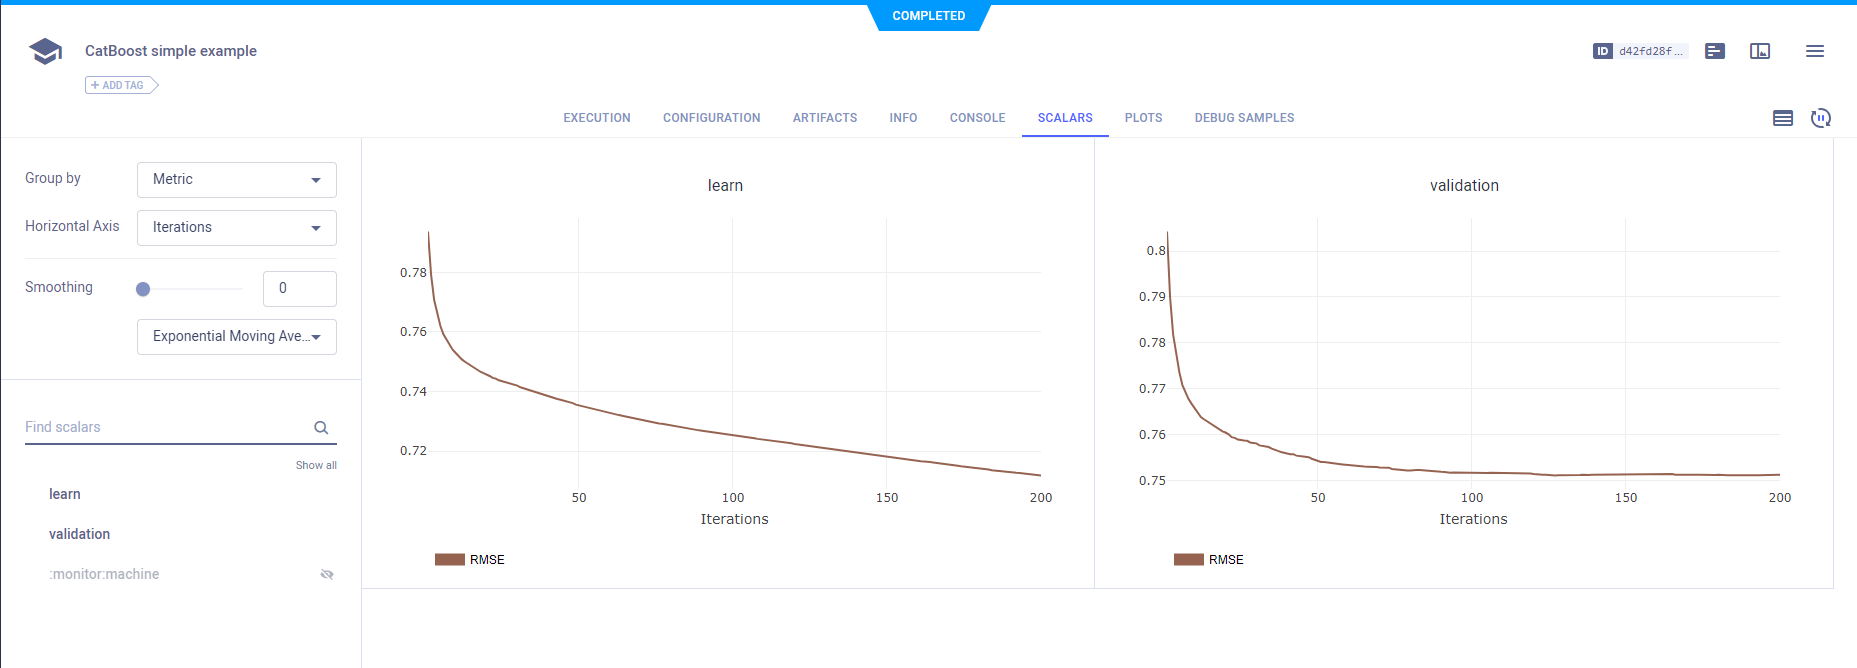
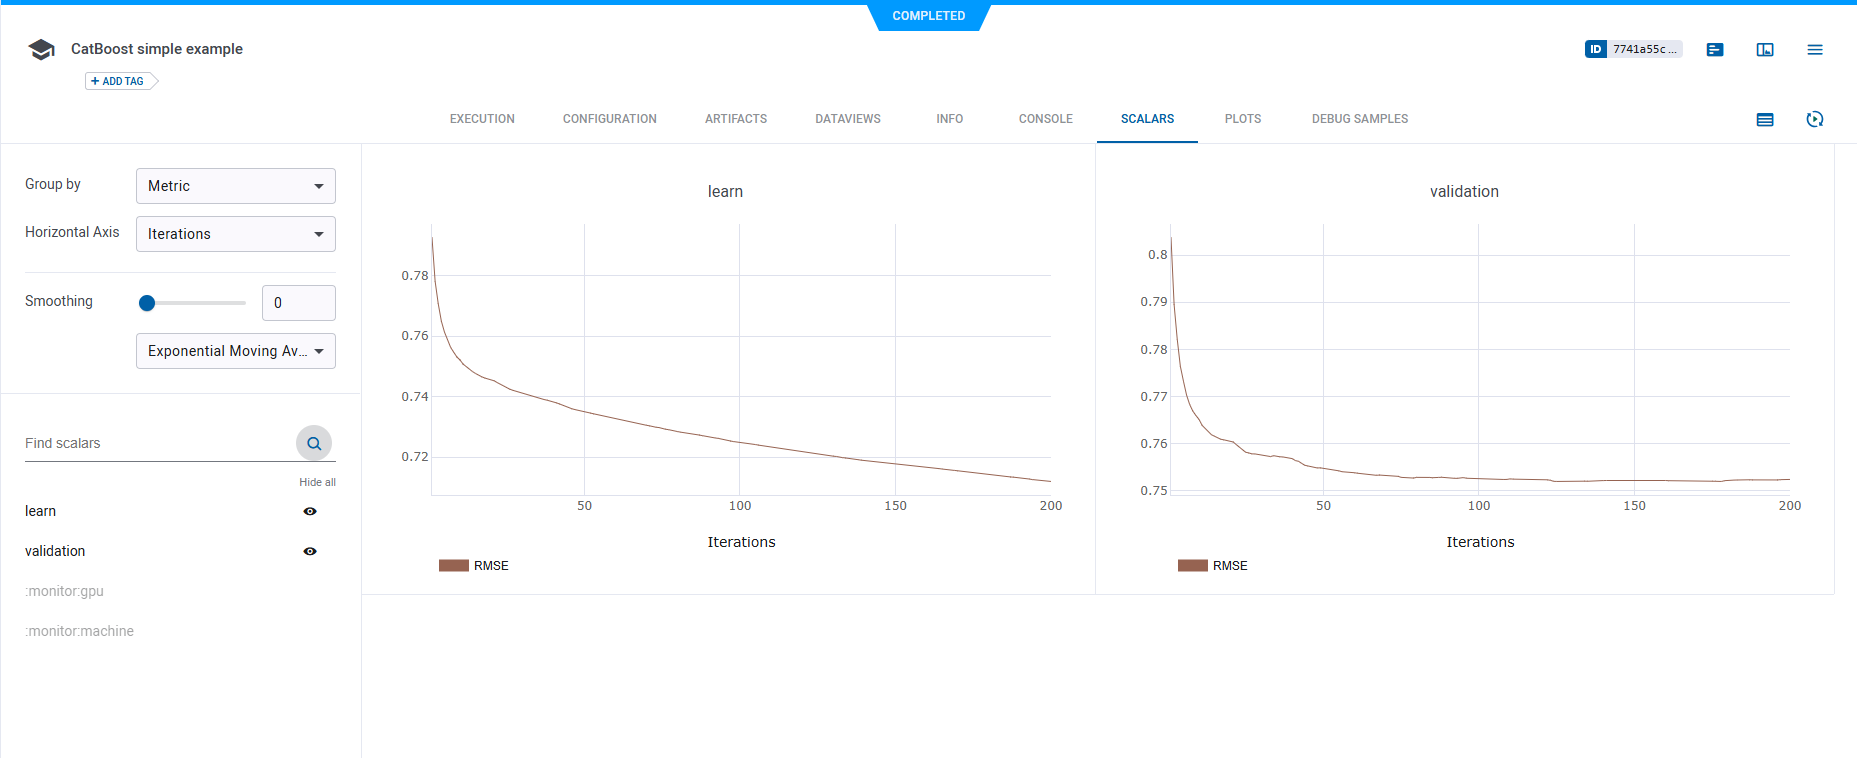
Update Catboost images

diff --git a/docs/guides/frameworks/catboost/catboost.md b/docs/guides/frameworks/catboost/catboost.md
@@ -15,25 +15,30 @@ The example script does the following:
 ClearML automatically captures scalars logged by CatBoost. These scalars can be visualized in plots, which appear in the 
 [ClearML web UI](../../../webapp/webapp_overview.md), in the task's **SCALARS** tab.
 
-![Task scalars](../../../img/examples_catboost_scalars.png)
+![Task scalars](../../../img/examples_catboost_scalars.png#light-mode-only)
+![Task scalars](../../../img/examples_catboost_scalars_dark.png#dark-mode-only)
 
 ## Hyperparameters
 ClearML automatically logs command line options defined with argparse. They appear in **CONFIGURATIONS > HYPERPARAMETERS > Args**.
 
-![Task hyperparameters](../../../img/examples_catboost_configurations.png)
+![Task hyperparameters](../../../img/examples_catboost_configurations.png#light-mode-only)
+![Task hyperparameters](../../../img/examples_catboost_configurations_dark.png#dark-mode-only)
 
 ## Console
 Text printed to the console for training progress, as well as all other console output, appear in **CONSOLE**.
 
-![Task console](../../../img/examples_catboost_console.png)
+![Task console](../../../img/examples_catboost_console.png#light-mode-only)
+![Task console](../../../img/examples_catboost_console_dark.png#dark-mode-only)
 
 ## Artifacts
 Models created by the task appear in the task's **ARTIFACTS** tab. ClearML automatically logs and tracks 
 models created using CatBoost.
 
-![Task artifacts](../../../img/examples_catboost_artifacts.png)
+![Task artifacts](../../../img/examples_catboost_artifacts.png#light-mode-only)
+![Task artifacts](../../../img/examples_catboost_artifacts_dark.png#dark-mode-only)
 
 Clicking on the model name takes you to the [model's page](../../../webapp/webapp_model_viewing.md), where you can view 
 the model's details and access the model.
 
-![Model page](../../../img/examples_catboost_model.png)
+![Model page](../../../img/examples_catboost_model.png#light-mode-only)
+![Model page](../../../img/examples_catboost_model_dark.png#dark-mode-only)
